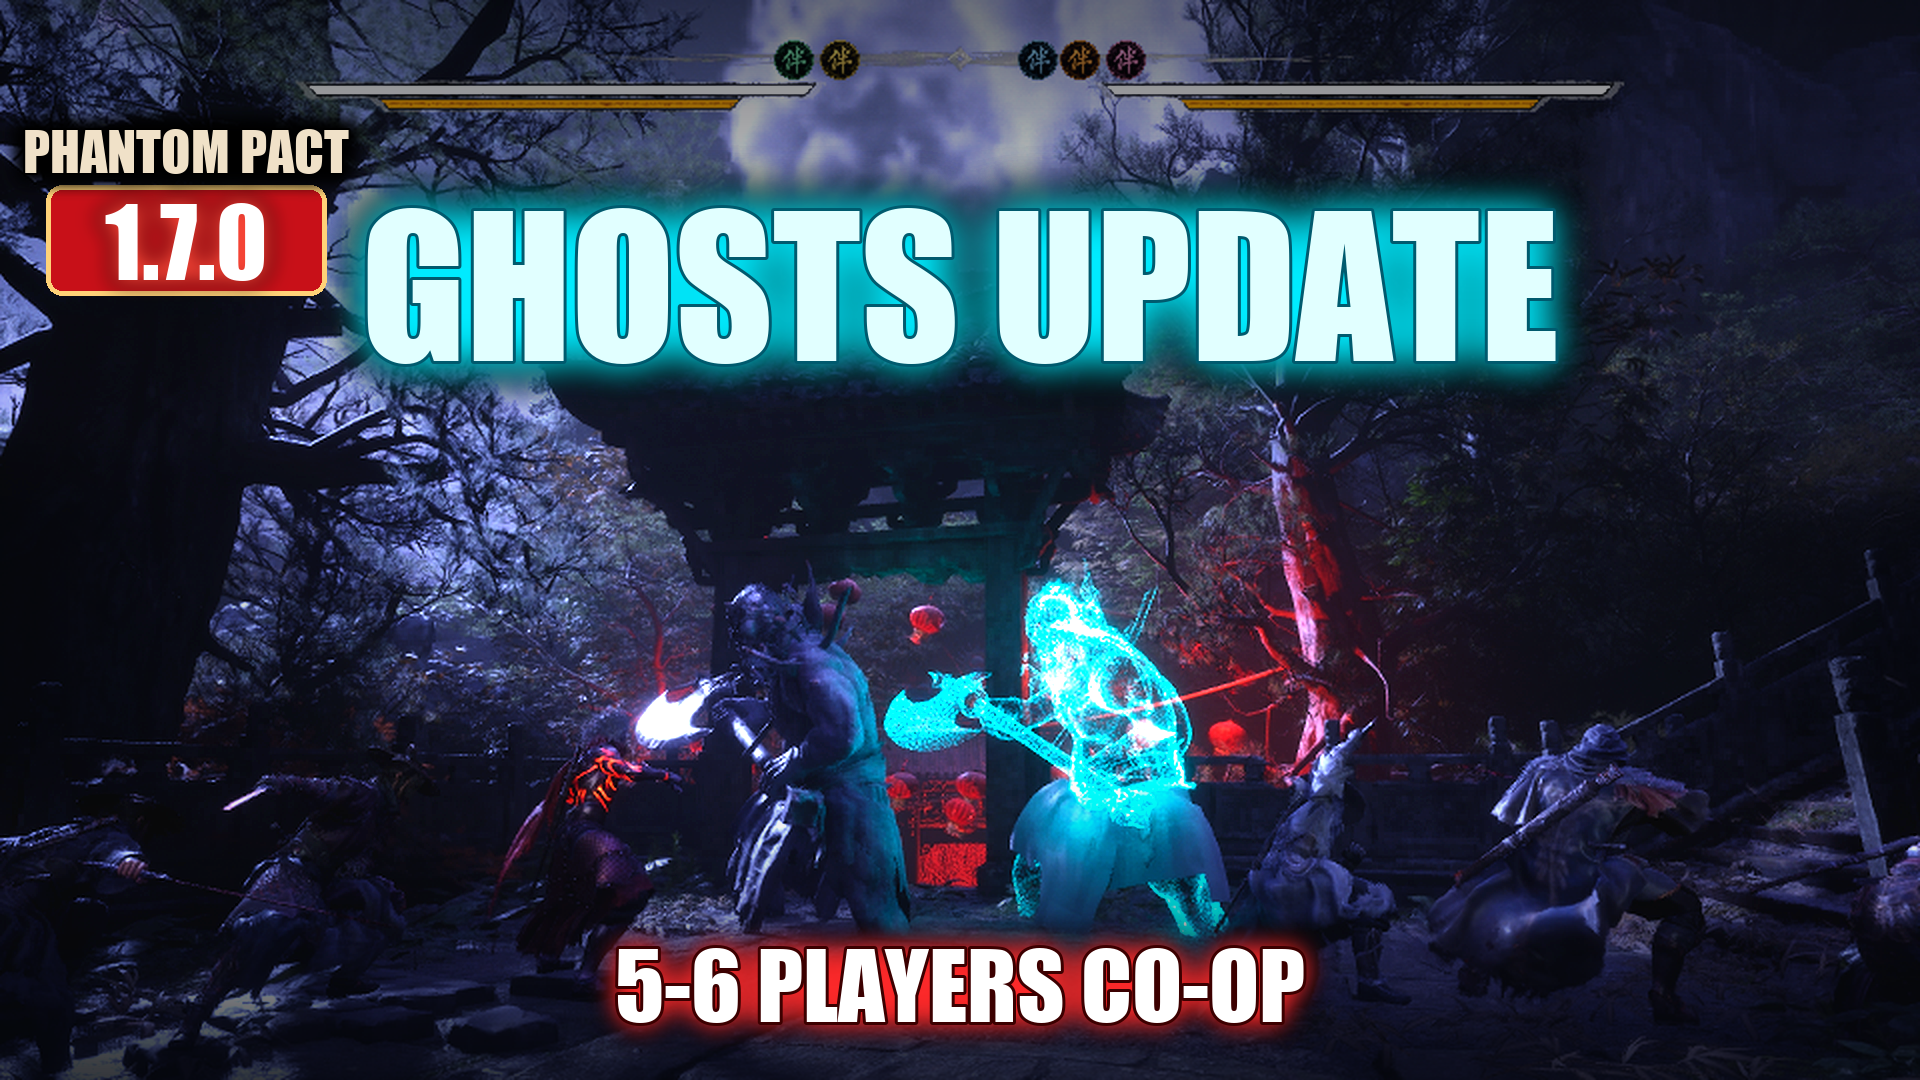
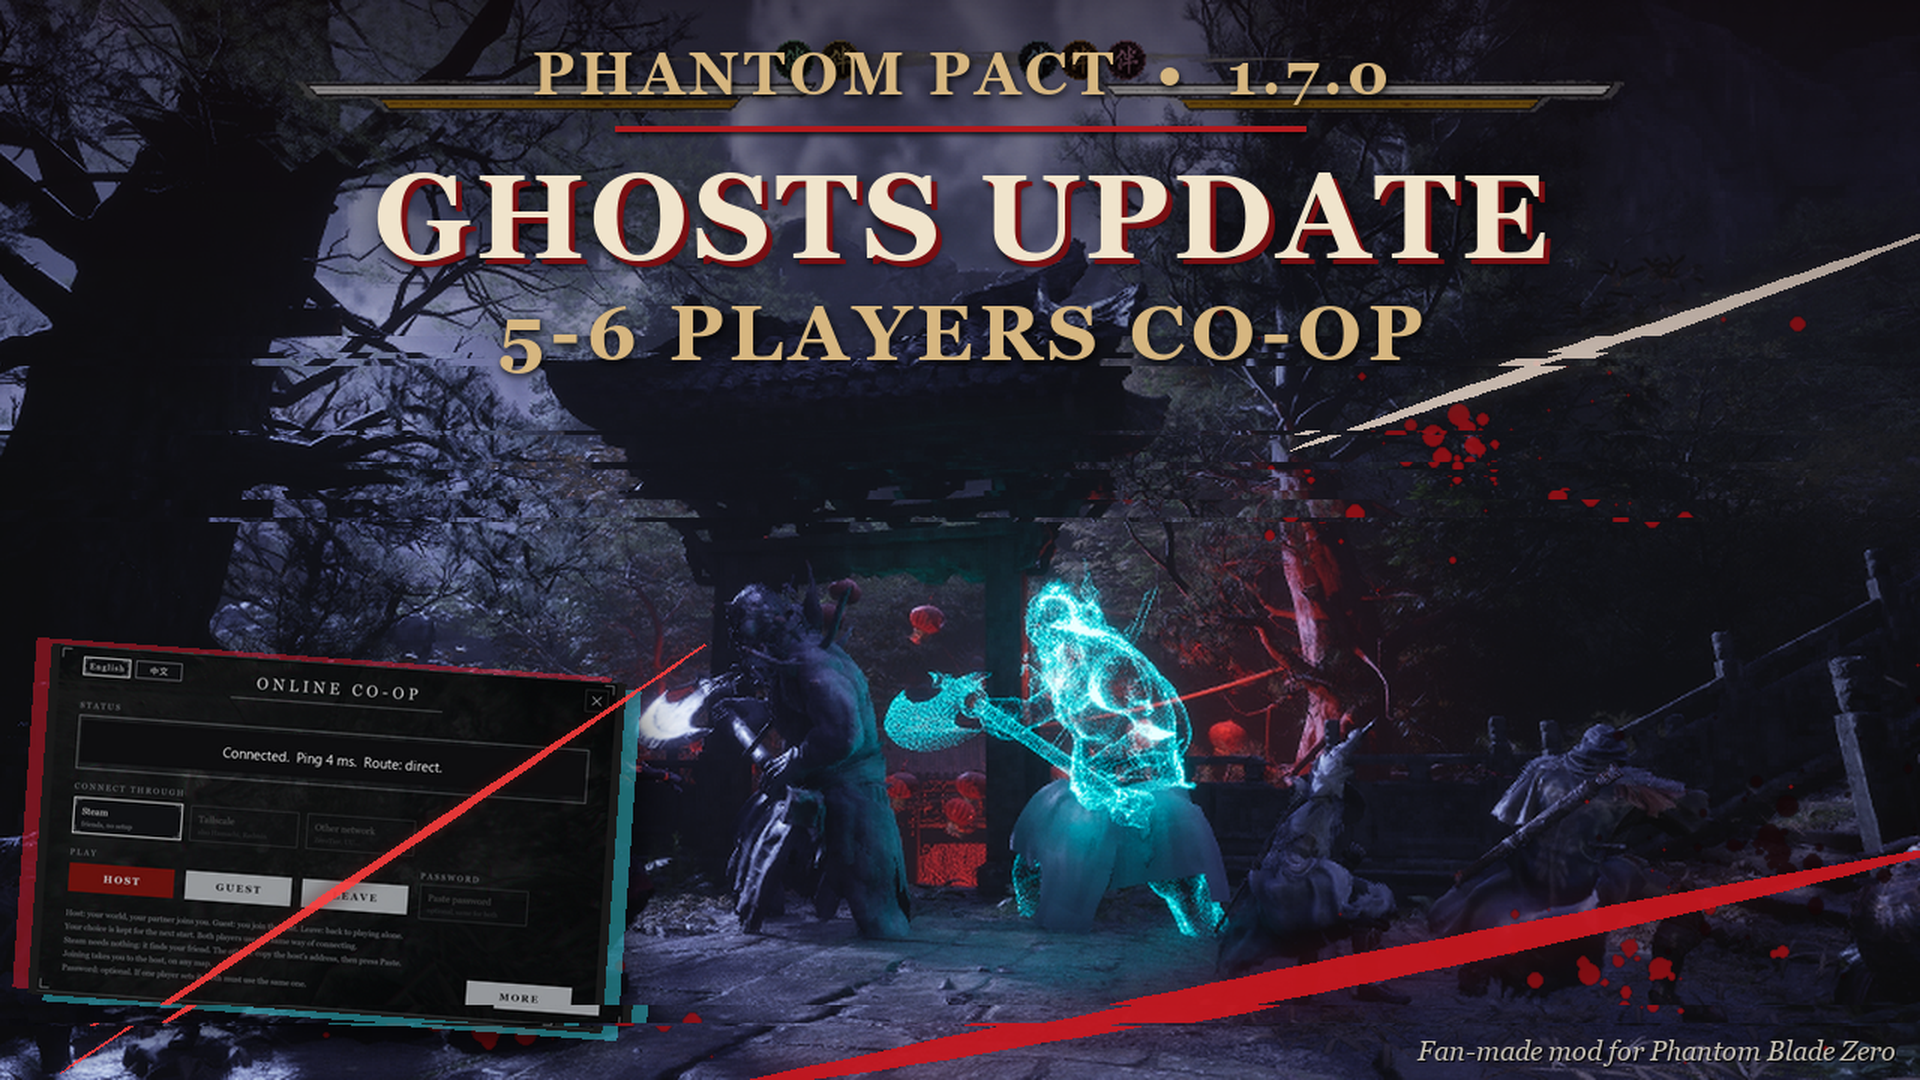
1.7.0 thumbnail in the 1.6.0 design: Ghosts Update, 5-6 players co-op, six players behind facing Peng Meng and his cyan twin, the online panel with its glitch echo (art/make_ghosts_thumb.py; its photo art/screenshots/ghosts-update-1.7.0.png is kept out of git like the others)

diff --git a/art/make_ghosts_thumb.py b/art/make_ghosts_thumb.py
@@ -1,0 +1,143 @@
+"""The 1.7.0 "Ghosts Update" thumbnail, in the 1.6.0 one's design (the user's pick): six players seen low from behind,
+facing Peng Meng and his cyan ghost twin under two boss bars, the online co-op panel thrown in at the bottom left with
+a red/cyan glitch echo, sword slashes and ink, and the release lettered above in the style of make_art.py.
+Re-run:  python -I art/make_ghosts_thumb.py   ->  art/thumbnail/PhantomPact-1.7.0-thumbnail.png
+"""
+import math
+import os
+import random
+import sys
+
+from PIL import Image, ImageChops, ImageDraw, ImageFilter, ImageFont
+
+HERE = os.path.dirname(os.path.abspath(__file__))
+sys.path.insert(0, HERE)
+from make_art import BOLD, card_text, credit_line, font, red_rule  # noqa: E402
+
+SRC = os.path.join(HERE, "screenshots", "ghosts-update-1.7.0.png")
+PANEL = os.path.join(HERE, "nexus", "guide", "install-4-f5-panel.png")
+OUT = os.path.join(HERE, "thumbnail", "PhantomPact-1.7.0-thumbnail.png")
+
+
+def panel_image():
+    """The F5 panel from the install guide, its caption cut off. Its status line had the partner's name blanked:
+    a status without anyone's name is written over it."""
+    p = Image.open(PANEL).convert("RGBA").crop((10, 66, 650, 456))
+    d = ImageDraw.Draw(p)
+    d.rectangle([40, 82, 600, 128], fill=(14, 14, 16, 255))
+    f = ImageFont.truetype(r"C:\Windows\Fonts\segoeui.ttf", 15)
+    s = "Connected.  Ping 4 ms.  Route: direct."
+    d.text((320 - d.textlength(s, font=f) / 2, 96), s, font=f, fill=(236, 236, 236, 255))
+    return p
+
+
+def slash(size, p0, p1, width, color):
+    """A sword stroke: thick in the middle, sharp at both ends, with a soft glow."""
+    W, H = size
+    lay = Image.new("RGBA", size, (0, 0, 0, 0))
+    d = ImageDraw.Draw(lay)
+    (x0, y0), (x1, y1) = p0, p1
+    dx, dy = x1 - x0, y1 - y0
+    n = math.hypot(dx, dy)
+    nx, ny = -dy / n, dx / n
+    pts_top, pts_bot = [], []
+    for i in range(41):
+        t = i / 40
+        w = width * math.sin(math.pi * t) ** 0.8
+        x, y = x0 + dx * t, y0 + dy * t
+        pts_top.append((x + nx * w, y + ny * w))
+        pts_bot.append((x - nx * w * 0.35, y - ny * w * 0.35))
+    d.polygon(pts_top + pts_bot[::-1], fill=color)
+    glow = lay.filter(ImageFilter.GaussianBlur(width * 1.4))
+    return Image.alpha_composite(glow, lay)
+
+
+def splatter(size, rng, n, color, spread):
+    lay = Image.new("RGBA", size, (0, 0, 0, 0))
+    d = ImageDraw.Draw(lay)
+    for cx, cy in spread:
+        for _ in range(n):
+            a = rng.uniform(0, math.tau)
+            r = rng.expovariate(1 / 70)
+            x, y = cx + math.cos(a) * r, cy + math.sin(a) * r * 0.7
+            s = min(7.0, max(1.0, rng.expovariate(1 / 2.6) * (1.3 if r < 40 else 0.6)))
+            d.ellipse([x - s, y - s, x + s, y + s], fill=color)
+    return lay.filter(ImageFilter.GaussianBlur(0.6))
+
+
+def glitch_bands(img, rng, count, keep=()):
+    """count bands of the picture shifted sideways; none crosses a y range in keep (the panel's heading and
+    buttons stay readable)."""
+    W, H = img.size
+    out = img.copy()
+    placed = 0
+    while placed < count:
+        y = rng.randint(int(H * 0.3), H - 20)
+        h = rng.randint(3, 14)
+        if any(y < b and y + h > a for a, b in keep):
+            continue
+        placed += 1
+        dx = rng.randint(-26, 26)
+        band = img.crop((0, y, W, y + h))
+        out.paste(band, (dx, y))
+    return out
+
+
+def make_thumb(src):
+    W, H = 1280, 720
+    rng = random.Random(170)
+    img = src.convert("RGBA").resize((W, H), Image.LANCZOS)
+    # Ink and blood behind everything else.
+    img = Image.alpha_composite(img, splatter((W, H), rng, 70, (20, 6, 8, 210), [(120, 600), (1180, 560)]))
+    img = Image.alpha_composite(img, splatter((W, H), rng, 50, (150, 14, 20, 230), [(330, 680), (1080, 640), (980, 300)]))
+    # Two sword strokes across the frame.
+    # (Kept off the two bosses in the middle: the strokes run low on the right and through the sky.)
+    img = Image.alpha_composite(img, slash((W, H), (430, 735), (1320, 560), 15, (200, 22, 30, 235)))
+    img = Image.alpha_composite(img, slash((W, H), (860, 300), (1300, 150), 7, (255, 236, 220, 200)))
+    # The panel, thrown in between the two at a slight tilt, with a red/blue echo behind it (the user's pick:
+    # "the slight rotate and bigger and glitchy").
+    p = panel_image()
+    p = p.resize((int(p.width * 0.6), int(p.height * 0.6)), Image.LANCZOS)
+    rot = p.rotate(-4, expand=True, resample=Image.BICUBIC)
+    px, py = 18, H - rot.height - 30
+    shadow = Image.new("RGBA", (W, H), (0, 0, 0, 0))
+    shadow.paste((0, 0, 0, 200), (px + 14, py + 18), rot.getchannel("A"))
+    img = Image.alpha_composite(img, shadow.filter(ImageFilter.GaussianBlur(14)))
+    for off, tint in (((-10, -4), (255, 30, 50)), ((10, 5), (60, 240, 255))):
+        echo = Image.new("RGBA", (W, H), (0, 0, 0, 0))
+        mask = rot.getchannel("A").point(lambda v: int(v * 0.42))
+        echo.paste(tint + (255,), (px + off[0], py + off[1]), mask)
+        img = Image.alpha_composite(img, echo)
+    img.alpha_composite(rot, (px, py))
+    # A thin cut through the panel itself, and the glitch over everything.
+    img = Image.alpha_composite(img, slash((W, H), (40, 715), (470, 430), 4, (255, 60, 60, 220)))
+    # (Clear of the panel's heading and its HOST / GUEST / LEAVE row, and of the two bosses.)
+    img = glitch_bands(img, rng, 9, keep=((430, 470), (560, 610), (380, 640)))
+    # A soft darkening at the top, so the lettering reads on the bright fog.
+    shade = Image.new("L", (1, H))
+    for y in range(H):
+        shade.putpixel((0, y), int(150 * max(0.0, 1 - y / (H * 0.45)) ** 1.5))
+    dark = Image.new("RGBA", (W, H), (14, 6, 8, 255))
+    dark.putalpha(shade.resize((W, H)))
+    img = Image.alpha_composite(img, dark)
+    cx = W / 2
+    items = [
+        (cx, 26, "PHANTOM PACT  •  1.7.0", font(BOLD, 40), 3, "gold"),
+        (cx, 98, "GHOSTS UPDATE", font(BOLD, 80), 3, "hero"),
+        (cx, 192, "5-6 PLAYERS CO-OP", font(BOLD, 52), 4, "gold"),
+    ]
+    img = Image.alpha_composite(img, card_text((W, H), items))
+    img = red_rule(img, cx - 230, cx + 230, 84, 3)
+    credit_line(img, "Fan-made mod for Phantom Blade Zero", 18, (W - 16, H - 30), align="right")
+    return img.convert("RGB")
+
+
+def main():
+    src = Image.open(SRC)
+    src.load()
+    make_thumb(src).save(OUT, optimize=True)
+    print(OUT)
+
+
+if __name__ == "__main__":
+    main()
